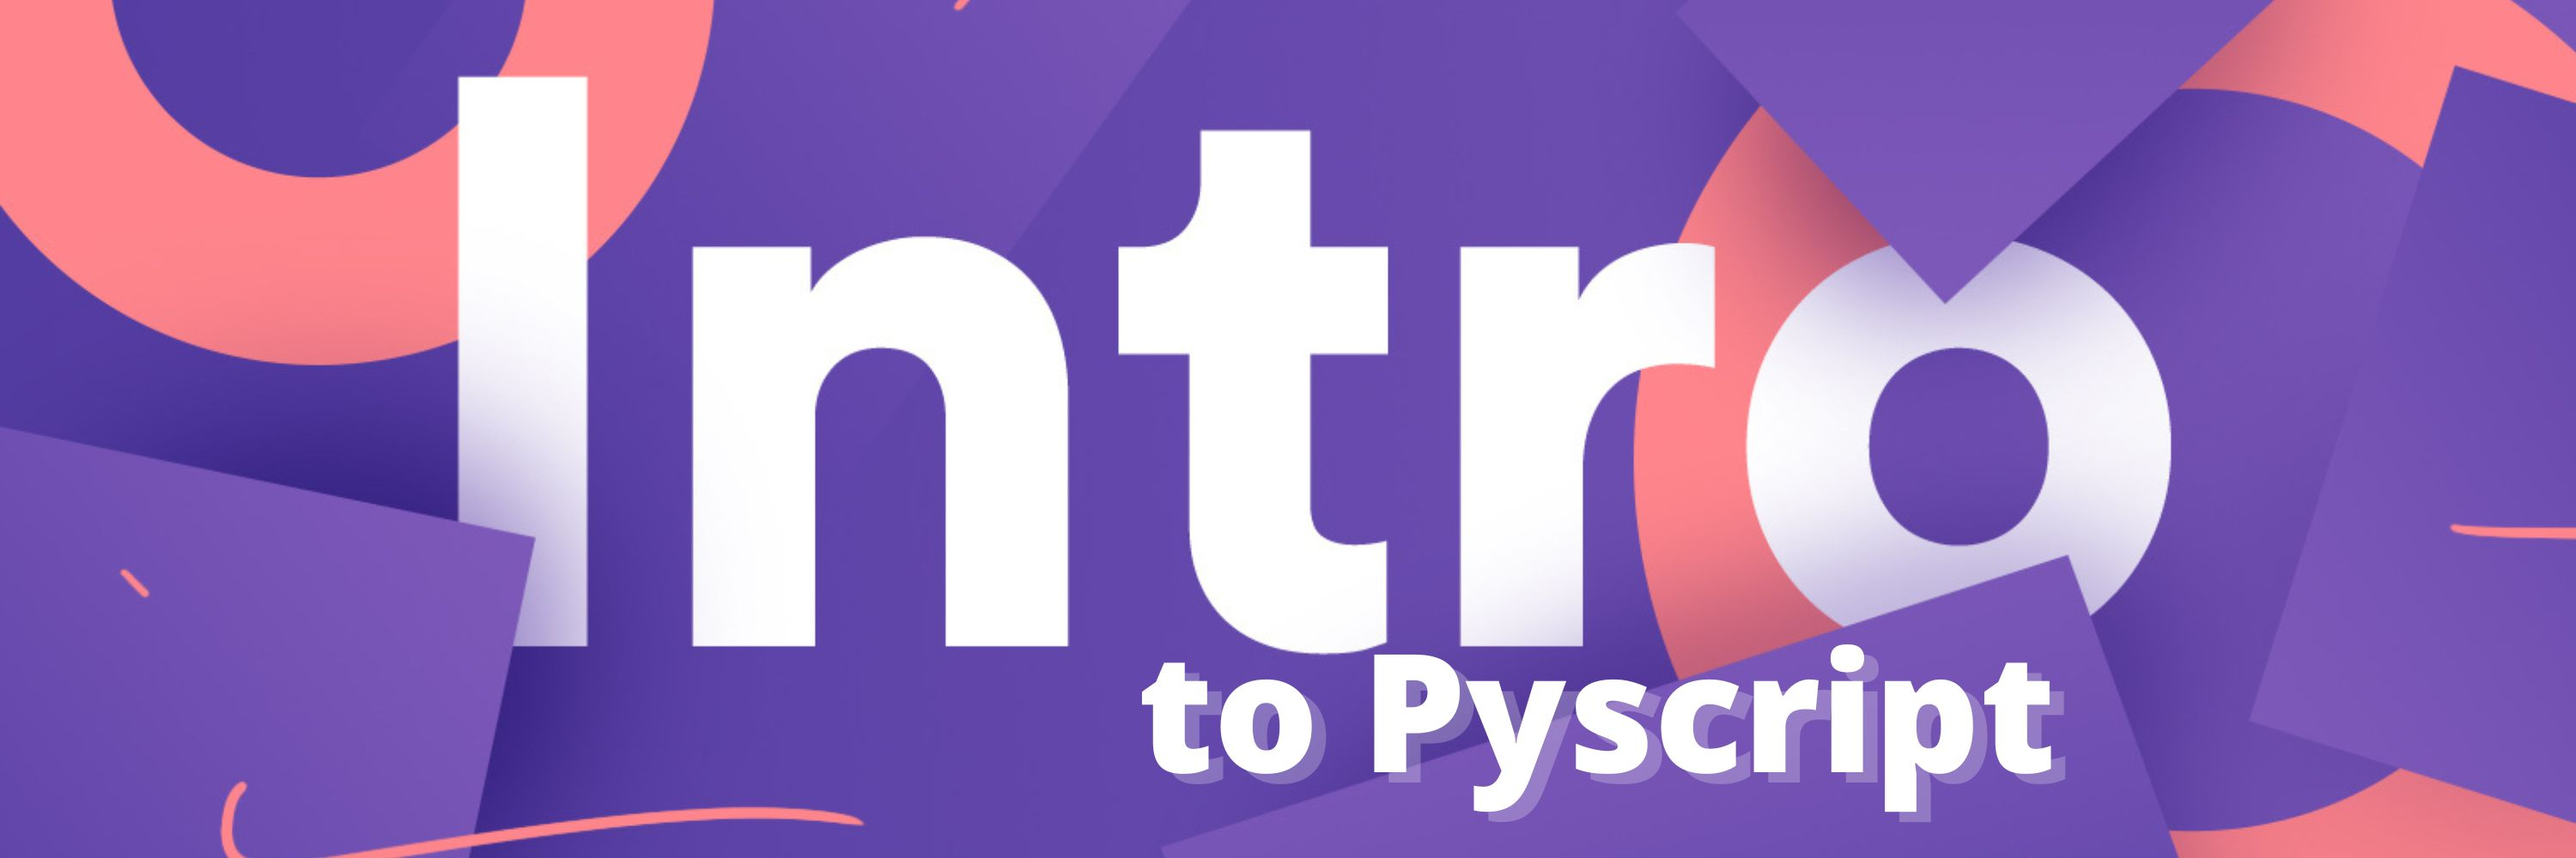
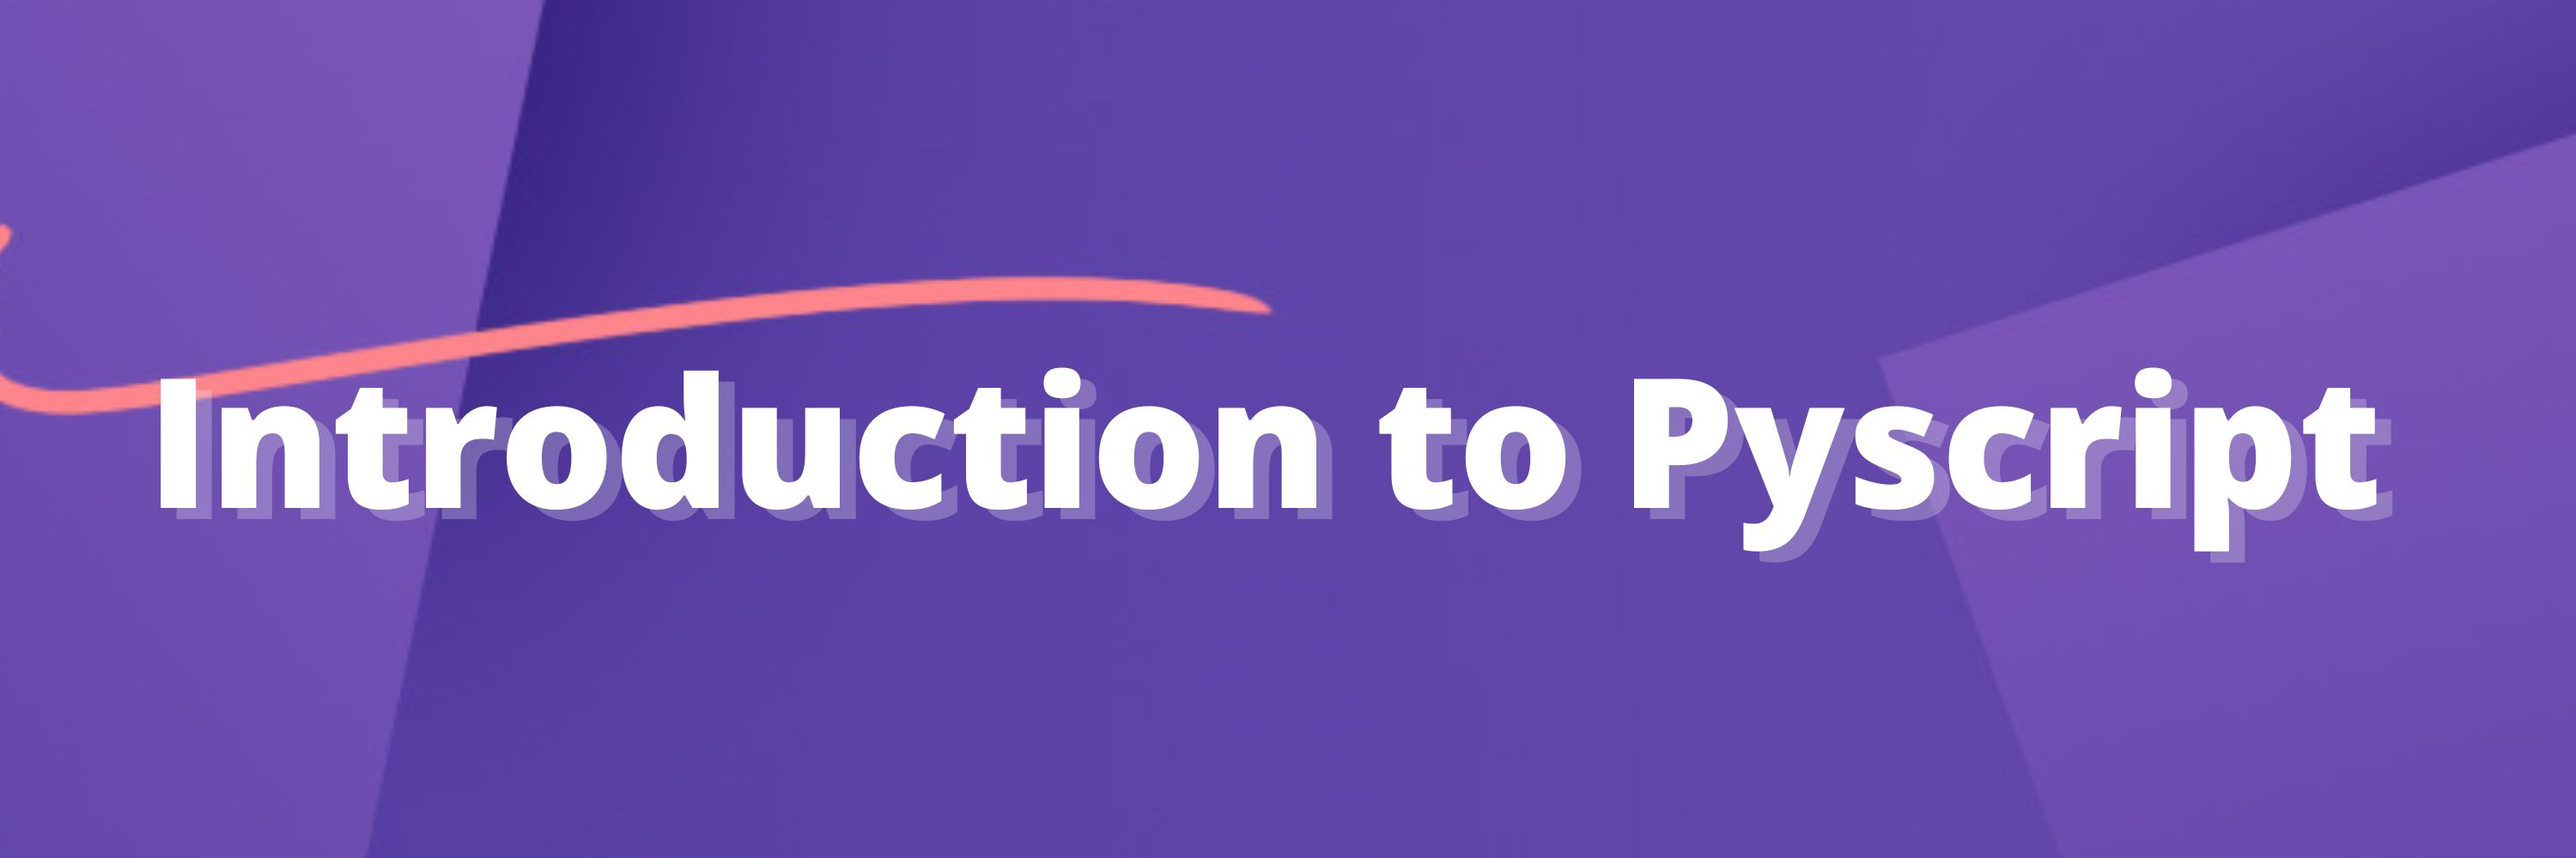
Header imagee finalized

diff --git a/blog/_posts/2022-07-02-introduction-pyscript.md b/blog/_posts/2022-07-02-introduction-pyscript.md
@@ -279,5 +279,3 @@ PyScript could become an important tool in your toolset. it's still very new, in
 ## Outside Article Checklist
 
 - [ ] Add in Author page
-- [ ] Create header image in Canva
-- [ ] Add Earthly `CTA` at bottom ``
